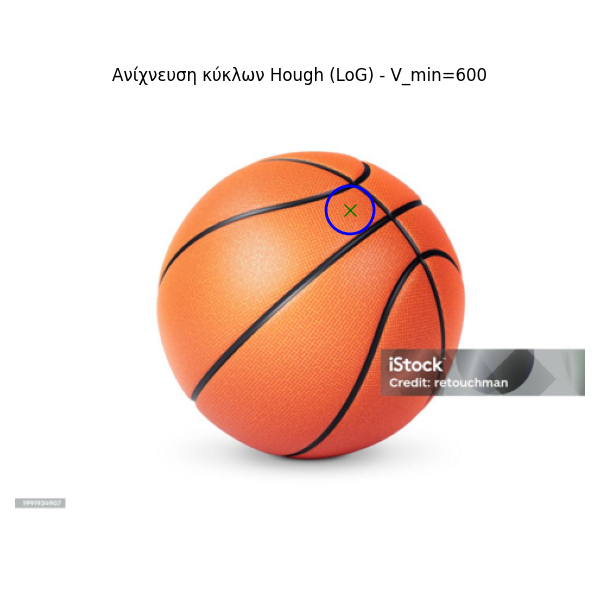
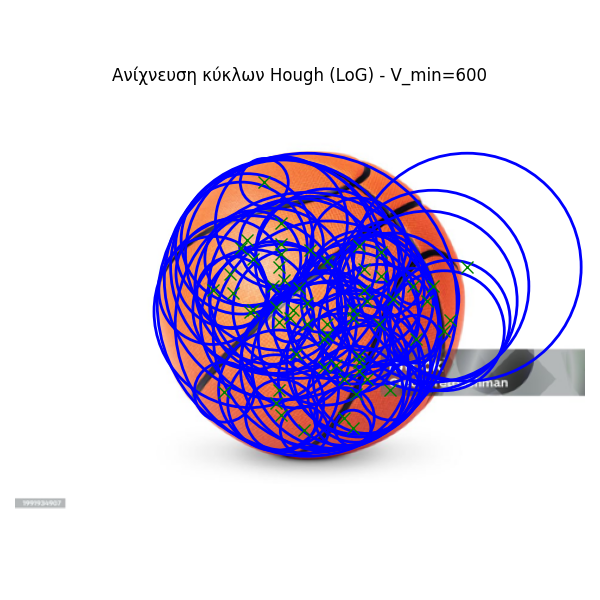
new values for log_edge

diff --git a/2nd_assignment/demo.py b/2nd_assignment/demo.py
@@ -17,35 +17,35 @@ img = Image.open(fp=filename)
 bw_img = img.convert("L")
 img_array = np.array(bw_img).astype(float) / 255.0
 
-# Display original image
-plt.imshow(img_array, cmap='gray')
-plt.title("Original Image")
-plt.axis('off')
-plt.savefig(os.path.join(output_dir, "1_Original_Image.png"))
-
-# Sobel edge detection
-thres = [0.1, 0.2, 0.3, 0.4, 0.5, 0.6, 0.7, 0.8, 0.9]
-detected_points = []
-
-plt.figure(figsize=(12, 12))
-for i, t in enumerate(thres):
-    sobel_out_img_array = sobel_edge(img_array, t)
-    num_edges = np.sum(sobel_out_img_array)
-    detected_points.append(num_edges)
-    plt.subplot(3, 3, i + 1)
-    plt.imshow(sobel_out_img_array, cmap='gray')
-    plt.title(f"Threshold: {t}")
-    plt.axis('off')
-plt.tight_layout()
-plt.savefig(os.path.join(output_dir, "2_Sobel_Edge_Detection_Grid_Compact.png"))
-
-plt.figure()
-plt.plot(thres, detected_points, marker='o')
-plt.title("Number of Detected Edge Pixels vs. Threshold")
-plt.xlabel("Threshold Value")
-plt.ylabel("Number of Edge Pixels")
-plt.grid(True)
-plt.savefig(os.path.join(output_dir, "3_Sobel_Edge_Pixel_Count_vs_Threshold.png"))
+# # Display original image
+# plt.imshow(img_array, cmap='gray')
+# plt.title("Original Image")
+# plt.axis('off')
+# plt.savefig(os.path.join(output_dir, "1_Original_Image.png"))
+#
+# # Sobel edge detection
+# thres = [0.1, 0.2, 0.3, 0.4, 0.5, 0.6, 0.7, 0.8, 0.9]
+# detected_points = []
+#
+# plt.figure(figsize=(12, 12))
+# for i, t in enumerate(thres):
+#     sobel_out_img_array = sobel_edge(img_array, t)
+#     num_edges = np.sum(sobel_out_img_array)
+#     detected_points.append(num_edges)
+#     plt.subplot(3, 3, i + 1)
+#     plt.imshow(sobel_out_img_array, cmap='gray')
+#     plt.title(f"Threshold: {t}")
+#     plt.axis('off')
+# plt.tight_layout()
+# plt.savefig(os.path.join(output_dir, "2_Sobel_Edge_Detection_Grid_Compact.png"))
+#
+# plt.figure()
+# plt.plot(thres, detected_points, marker='o')
+# plt.title("Number of Detected Edge Pixels vs. Threshold")
+# plt.xlabel("Threshold Value")
+# plt.ylabel("Number of Edge Pixels")
+# plt.grid(True)
+# plt.savefig(os.path.join(output_dir, "3_Sobel_Edge_Pixel_Count_vs_Threshold.png"))
 
 # Log edge detection
 log_out_img_array = log_edge(img_array)
@@ -57,32 +57,32 @@ plt.savefig(os.path.join(output_dir, "3_Log_Edge_Detection.png"))
 # Circle Hough Transform initialization
 R_max = 500
 dim = np.array([200, 200, 100])
-V_min_Sobel = [550, 650, 730, 750, 1000]
-V_min_LoG = [300, 370, 400, 600, 1000]
+# V_min_Sobel = [550, 650, 730, 750, 1000]
+V_min_LoG = [600, 700, 800, 900, 1000]
 
 width, height = img.size
 img_size = (width/3, height/3)
 img = img.resize((int(img_size[0]), int(img_size[1])))
 bw_img = img.convert("L")
 img_array = np.array(bw_img).astype(float) / 255.0
-
-for i in V_min_Sobel:
-    # Circle Hough Transform with Sobel edge detection
-    edge_array = sobel_edge(img_array, thres=0.5)
-    centers_sobel, radii_sobel = circ_hough(edge_array, R_max, dim, i)
-
-    fig, ax = plt.subplots(figsize=(6, 6))
-    ax.imshow(img, cmap='gray')
-    for (cx, cy), r in zip(centers_sobel, radii_sobel):
-        circle = plt.Circle((cy, cx), r, fill=False, color='blue', linewidth=2)
-        ax.add_patch(circle)
-        ax.plot(cy, cx, marker='x', color='green', markersize=8)
-    plt.title(f"Ανίχνευση κύκλων Hough (Sobel) - V_min={i}")
-    plt.axis("off")
-    plt.tight_layout()
-    plt.savefig(os.path.join(output_dir, f"4_Circle_Hough_Sobel_Vmin_{i}.png"))
-    plt.close()
-
+#
+# for i in V_min_Sobel:
+#     # Circle Hough Transform with Sobel edge detection
+#     edge_array = sobel_edge(img_array, thres=0.5)
+#     centers_sobel, radii_sobel = circ_hough(edge_array, R_max, dim, i)
+#
+#     fig, ax = plt.subplots(figsize=(6, 6))
+#     ax.imshow(img, cmap='gray')
+#     for (cx, cy), r in zip(centers_sobel, radii_sobel):
+#         circle = plt.Circle((cy, cx), r, fill=False, color='blue', linewidth=2)
+#         ax.add_patch(circle)
+#         ax.plot(cy, cx, marker='x', color='green', markersize=8)
+#     plt.title(f"Ανίχνευση κύκλων Hough (Sobel) - V_min={i}")
+#     plt.axis("off")
+#     plt.tight_layout()
+#     plt.savefig(os.path.join(output_dir, f"4_Circle_Hough_Sobel_Vmin_{i}.png"))
+#     plt.close()
+#
 for i in V_min_LoG:
     # Circle Hough Transform with Log edge detection
     log_out_img_array = log_edge(img_array)

diff --git a/2nd_assignment/log_edge.py b/2nd_assignment/log_edge.py
@@ -3,8 +3,8 @@ from fir_conv import fir_conv
 
 
 def log_edge(in_img_array: np.ndarray) -> np.ndarray:
-    log_size = 10.0
-    sigma = 1.1
+    log_size = 7.0
+    sigma = 0.6
     k = (log_size - 1) / 2
     x = np.arange(-k, k, 1)
     x1, x2 = np.meshgrid(x, x)
@@ -13,7 +13,7 @@ def log_edge(in_img_array: np.ndarray) -> np.ndarray:
     h = - 1 * (1 - y) * np.exp(-y) / (np.pi * (sigma ** 4))
 
     result_img = fir_conv(in_img_array, h, None, None)[0]
-    threshold = 0.04
+    threshold = 0.05
     out_img_array = np.zeros_like(result_img, dtype=int)
 
     for i in range(1, result_img.shape[0] - 1):
